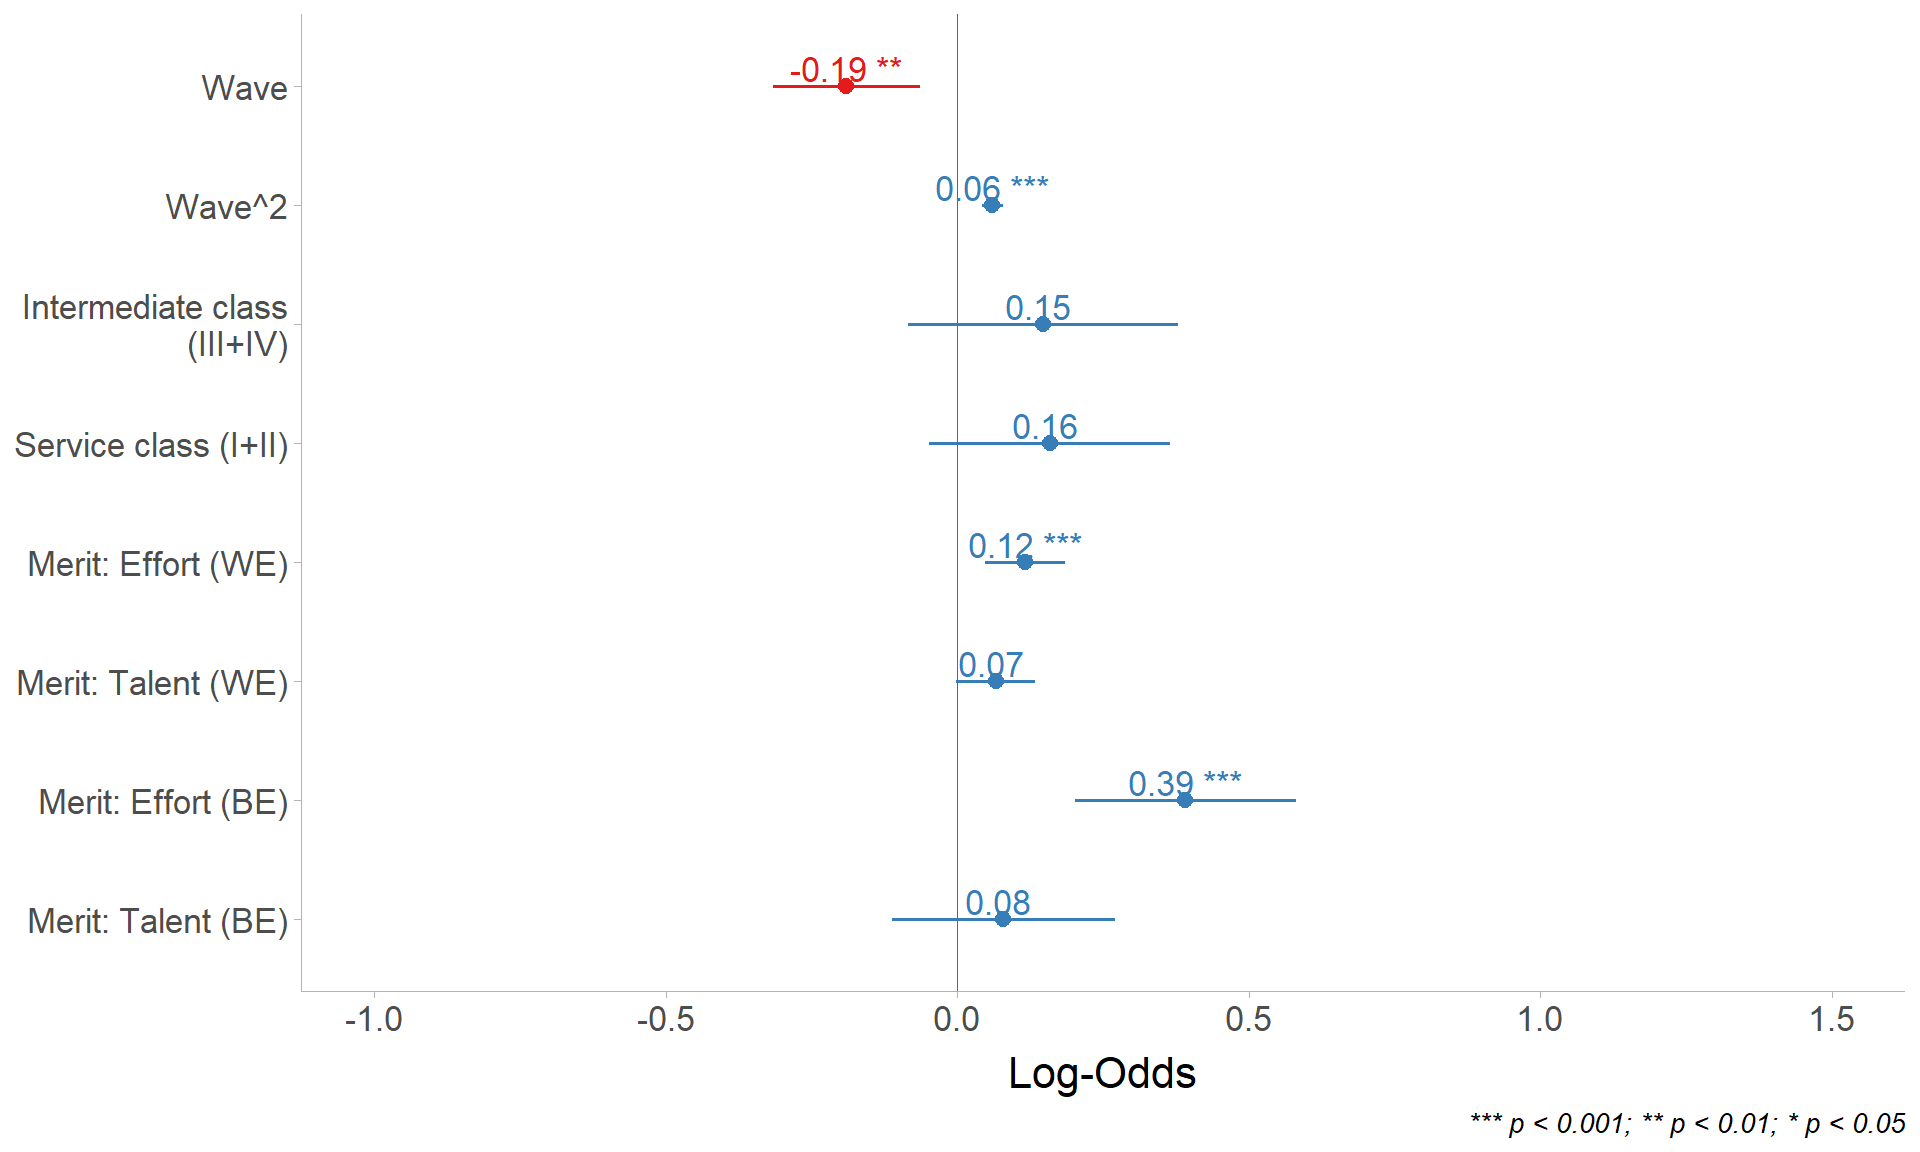
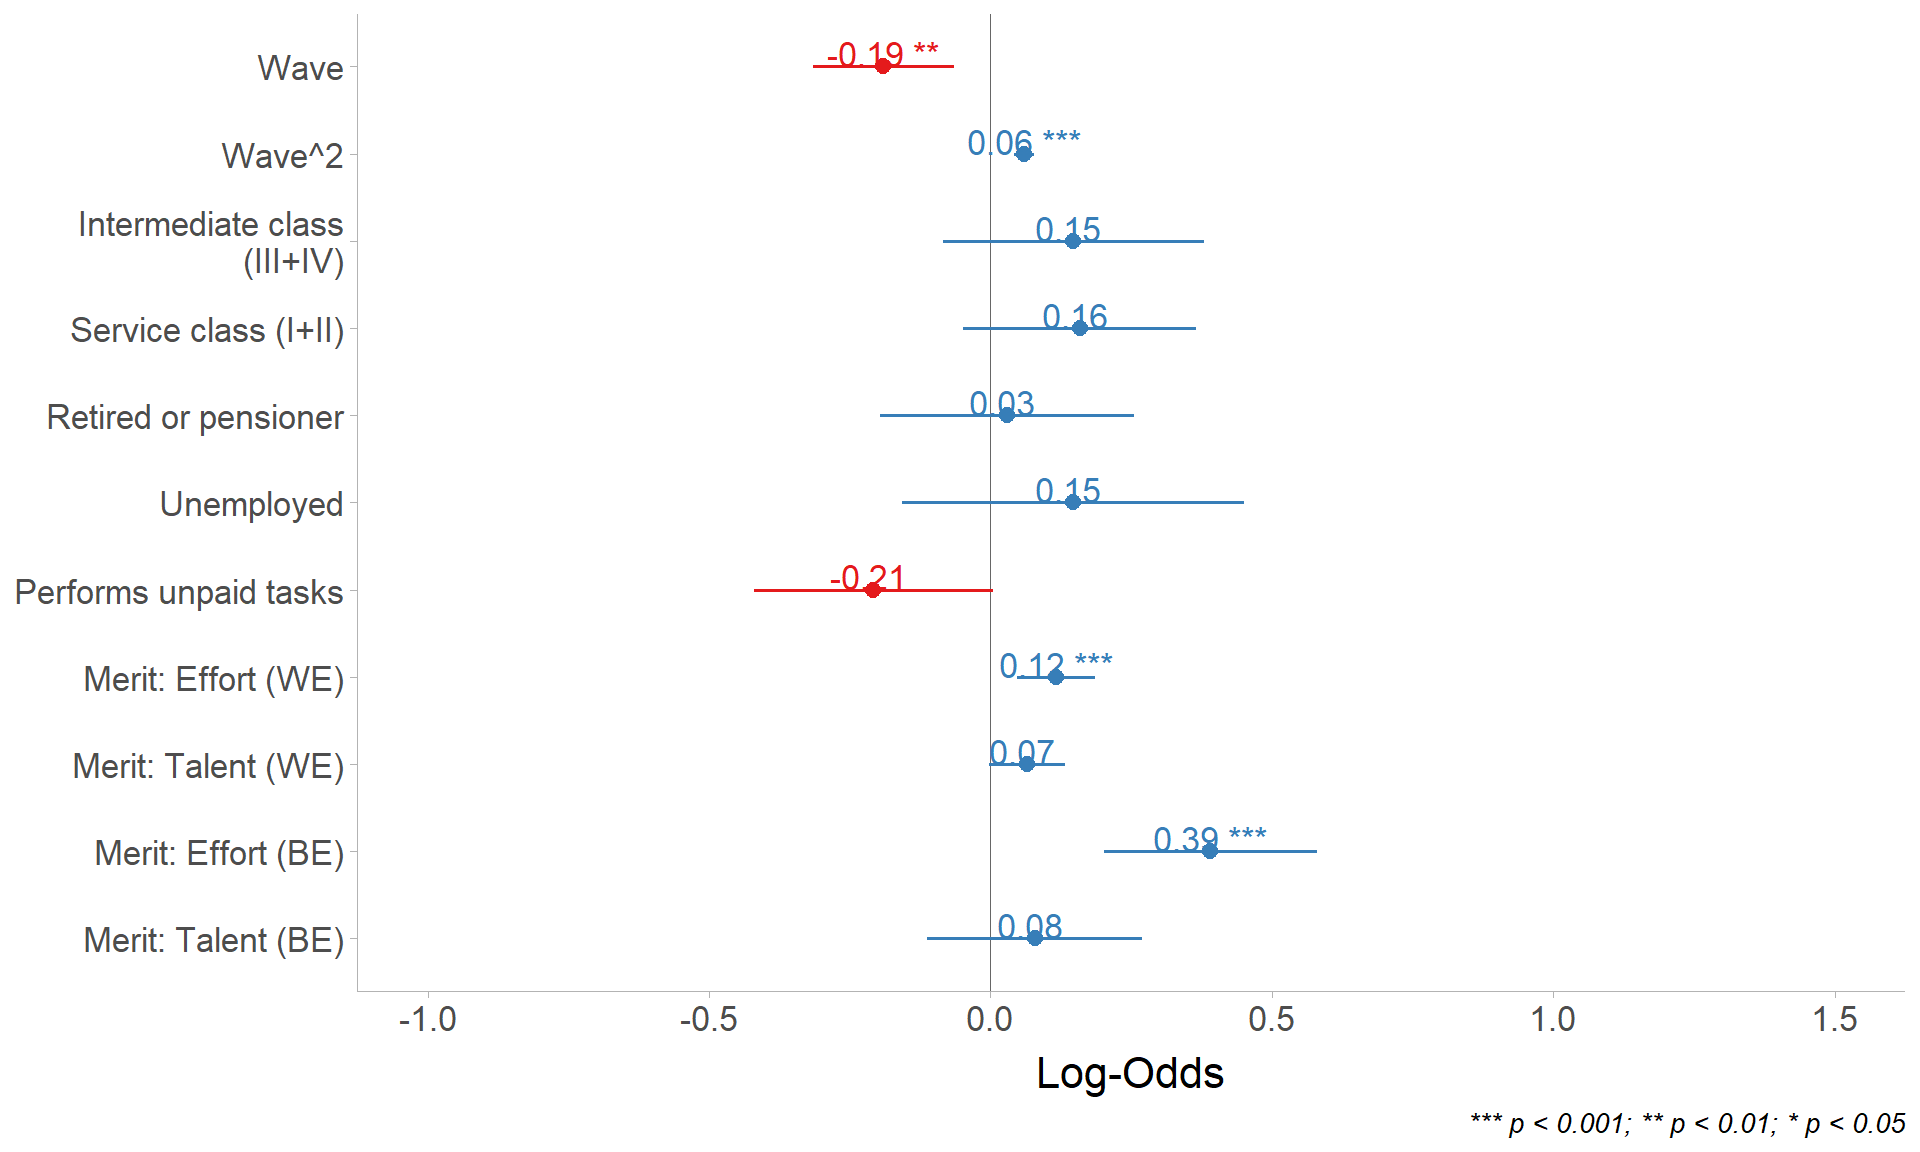
up-presentacion

diff --git a/presentations/ucen_dlr/UCEN2026.html b/presentations/ucen_dlr/UCEN2026.html
@@ -428,6 +428,7 @@ Figura&nbsp;4: Distribución de respuestas para las preferencias por justicia de
 <li class="fragment">Clase Intermedia (III+IV)</li>
 <li class="fragment">Clase Trabajadora (V+VI+VII)</li>
 </ul></li>
+<li class="fragment"><p>Además se incluyen tres categorías adicionales que corresponden a grupos fuera de la fuerza de trabajo: Pensionados, desempleados y trabajos no remunerados</p></li>
 <li class="fragment"><p>Fijada al valor de la primera ola (i.e.&nbsp;time-invariant) → captura diferencias promedio (BE = <span class="math inline">\(\bar X_{i}\)</span>)</p></li>
 </ul>
 </div>
@@ -528,7 +529,6 @@ Figura&nbsp;8: Interacciones por clase, meritocracia y preferencias por justicia
 <li class="fragment"><p><strong>Clase social</strong>: clases altas muestran mayor por justicia de mercado en pensiones que clases bajas (H1) <span class="citation" data-cites="mau_inequality_2015 otero_power_2024 lindh_public_2015">(<a href="#/referencias" role="doc-biblioref" onclick="">Lindh, 2015</a>; <a href="#/referencias" role="doc-biblioref" onclick="">Mau, 2015</a>; <a href="#/referencias" role="doc-biblioref" onclick="">Otero &amp; Mendoza, 2024</a>)</span></p></li>
 <li class="fragment"><p><strong>Meritocracia</strong>: creer que el esfuerzo es recompensado se asocia con más usticia de mercado (H2a y H2b) <span class="citation" data-cites="castillo_perceptions_2025">(<a href="#/referencias" role="doc-biblioref" onclick="">Castillo et&nbsp;al., 2025</a>)</span></p></li>
 <li class="fragment"><p><strong>Clase × Meritocracia</strong>: no hay evidencia de amplificación (H3a/H3b)</p></li>
-<li class="fragment"><p><strong>Proyecciones</strong>: incorporar desocupados, informales y fuera de la FT y refinar estimación (robustez, especificaciones ordinales)</p></li>
 </ol>
 </div>
 </section>
@@ -537,7 +537,7 @@ Figura&nbsp;8: Interacciones por clase, meritocracia y preferencias por justicia
 <p><strong>Forthcomming</strong>: Castillo JC, Canales Sellés R, Laffert A and Urzúa T (2026) “Justification trajectories for pension inequality in Chile (2016–2023): The role of social class and beliefs in meritocracy”. <em>Front. Sociol.</em> 11:1771856.doi</p>
 <div class="quarto-figure quarto-figure-center">
 <figure>
-<p><img data-src="images/frontiers_soon.png" class="quarto-figure quarto-figure-center" style="width:70.0%"></p>
+<p><img data-src="images/frontiers_soon.png" class="quarto-figure quarto-figure-center" style="width:90.0%"></p>
 </figure>
 </div>
 </section></section>
